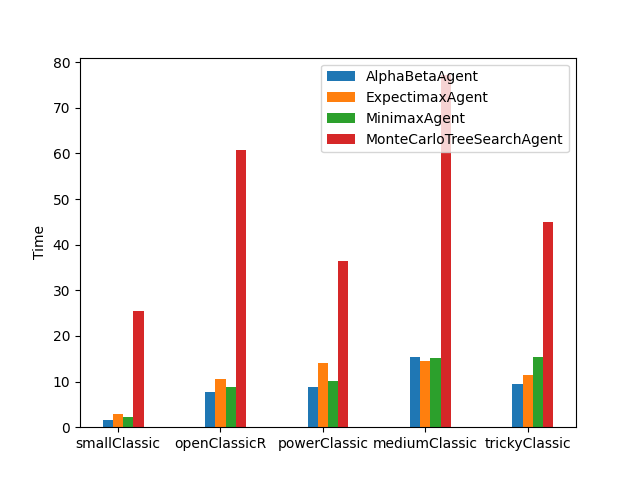
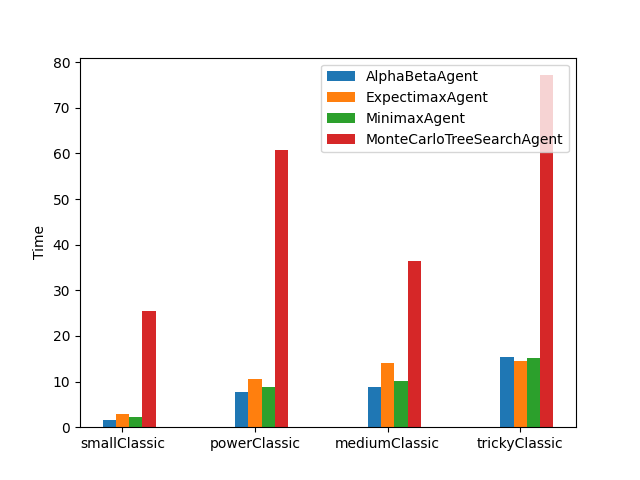
Custom layout specific graphs added

Changed region(s): [[0.125, 0.1562, 0.9062, 0.9375]]

diff --git a/source/2.multiagent/analysis/anova_testing.py b/source/2.multiagent/analysis/anova_testing.py
@@ -4,11 +4,14 @@ import matplotlib.pyplot as plt
 import os
 import json
 
-LAYOUTS = ["smallClassic", "openClassicR", "powerClassic","mediumClassic","trickyClassic"]
+ALLLAYOUTS = ["smallClassic", "powerClassic","mediumClassic","trickyClassic","openClassicR", "openClassicA", "openClassicN", "openClassicP", "mctsmodelClassic"]
+LAYOUTS = ["smallClassic", "powerClassic","mediumClassic","trickyClassic"]
+CUSTOMLAYOUTS = ["openClassicR", "openClassicA", "openClassicN", "openClassicP", "mctsmodelClassic"]
 
 def getData():
     directory = "../runs"
     data_specific_layout = dict()
+    data_specific_layout_custom = dict()
     for fname in os.listdir(directory):
         _fileName = os.path.join(directory, fname)
         if os.path.isfile(_fileName):
@@ -16,16 +19,24 @@ def getData():
             f_Data = json.loads(f.readline())
             fileName = _fileName.split("_")
             layout = fileName[2]
-            if layout in LAYOUTS:
-                if layout in data_specific_layout:
-                    data_specific_layout[layout].append(f_Data)
+            if layout in ALLLAYOUTS:
+                if layout=="openClassicR" or layout=="openClassicN" or layout=="openClassicP" or layout=="openClassicA" or layout=="mctsmodelClassic":
+                    if layout in data_specific_layout_custom:
+                        data_specific_layout_custom[layout].append(f_Data)
+                    else:
+                        data_specific_layout_custom[layout] = [f_Data]                    
                 else:
-                    data_specific_layout[layout] = [f_Data]
+                    if layout in data_specific_layout:
+                        data_specific_layout[layout].append(f_Data)
+                    else:
+                        data_specific_layout[layout] = [f_Data]
+            
             f.close()    
-    return data_specific_layout
+    return data_specific_layout,data_specific_layout_custom
 
-def analysis(data):
+def analysis(data, dataCustom):
     analysis = {}
+    analysisCustom = {}
     for layout in data:
         analysis[layout] = {}
         for d in data[layout]:
@@ -43,7 +54,25 @@ def analysis(data):
                 "meanTime": round((totalTime/count),2),
                 "winPercent": round((d["#Wins"]/d["TotalGames"]),2)
             }
-    return analysis
+
+    for layout in dataCustom:
+        analysisCustom[layout] = {}
+        for d in dataCustom[layout]:
+            # print(analysis)
+            count, totalScore, totalTime = 0, 0, 0
+            for i in range(d['TotalGames']):
+                if not d["Crashed"][i]:
+                    totalScore += d["Scores"][i]
+                    totalTime += d["Time"][i]
+                    count+=1
+                else:
+                    continue
+            analysisCustom[layout][d["Pacman_Agent"]] = {
+                "meanScore": 0 if count==0 else round((totalScore/count),2), 
+                "meanTime": 0 if count==0 else round((totalTime/count),2),
+                "winPercent": round((d["#Wins"]/d["TotalGames"]),2)
+            }
+    return analysis, analysisCustom
 
 def plot(data):
     x_axis = np.arange(len(LAYOUTS))
@@ -105,9 +134,70 @@ def plot(data):
     
     plt.show()
 
+def plotCUSTOM(data):
+    x_axis = np.arange(len(CUSTOMLAYOUTS))
+    width = 0.1
+    AlphaBetaAgent_score, ExpectimaxAgent_score, MinimaxAgent_score, MonteCarloTreeSearchAgent_score = [], [], [], []
+    AlphaBetaAgent_time, ExpectimaxAgent_time, MinimaxAgent_time,MonteCarloTreeSearchAgent_time = [], [], [], []
+    AlphaBetaAgent_win, ExpectimaxAgent_win, MinimaxAgent_win,MonteCarloTreeSearchAgent_win = [], [], [], []
+    for layout in data:
+        for agent in data[layout]:
+            if agent=="AlphaBetaAgent":
+                AlphaBetaAgent_score.append(data[layout]["AlphaBetaAgent"]["meanScore"])
+                AlphaBetaAgent_time.append(data[layout]["AlphaBetaAgent"]["meanTime"])
+                AlphaBetaAgent_win.append(data[layout]["AlphaBetaAgent"]["winPercent"])
+            elif agent=="ExpectimaxAgent":
+                ExpectimaxAgent_score.append(data[layout]["ExpectimaxAgent"]["meanScore"])
+                ExpectimaxAgent_time.append(data[layout]["ExpectimaxAgent"]["meanTime"])
+                ExpectimaxAgent_win.append(data[layout]["ExpectimaxAgent"]["winPercent"])
+            elif agent=="MinimaxAgent":
+                MinimaxAgent_score.append(data[layout]["MinimaxAgent"]["meanScore"])
+                MinimaxAgent_time.append(data[layout]["MinimaxAgent"]["meanTime"])
+                MinimaxAgent_win.append(data[layout]["MinimaxAgent"]["winPercent"])
+            elif agent=="MonteCarloTreeSearchAgent":
+                MonteCarloTreeSearchAgent_score.append(data[layout]["MonteCarloTreeSearchAgent"]["meanScore"])
+                MonteCarloTreeSearchAgent_time.append(data[layout]["MonteCarloTreeSearchAgent"]["meanTime"])
+                MonteCarloTreeSearchAgent_win.append(data[layout]["MonteCarloTreeSearchAgent"]["winPercent"])
+
+    # print(ExpectimaxAgent_score)
+    # print(MinimaxAgent_score)
+    plt.figure("Scores")
+    plt.bar(x_axis -width, AlphaBetaAgent_score, width, label = 'AlphaBetaAgent')
+    plt.bar(x_axis, ExpectimaxAgent_score, width, label = 'ExpectimaxAgent')
+    plt.bar(x_axis +width, MinimaxAgent_score, width, label = 'MinimaxAgent')
+    plt.bar(x_axis +width*2, MonteCarloTreeSearchAgent_score, width, label = 'MonteCarloTreeSearchAgent')
+    plt.ylabel("Scores")
+    plt.xticks(x_axis,CUSTOMLAYOUTS)
+    plt.legend()
+    plt.savefig('score_result_custom.png')
+
+
+    plt.figure("Time")
+    plt.bar(x_axis -width, AlphaBetaAgent_time, width, label = 'AlphaBetaAgent')
+    plt.bar(x_axis, ExpectimaxAgent_time, width, label = 'ExpectimaxAgent')
+    plt.bar(x_axis +width, MinimaxAgent_time, width, label = 'MinimaxAgent')
+    plt.bar(x_axis +width*2, MonteCarloTreeSearchAgent_time, width, label = 'MonteCarloTreeSearchAgent')
+    plt.ylabel("Time")
+    plt.xticks(x_axis,CUSTOMLAYOUTS)
+    plt.legend()
+    plt.savefig('time_result_custom.png')
+
+    plt.figure("Win Percent")
+    plt.bar(x_axis -width, AlphaBetaAgent_win, width, label = 'AlphaBetaAgent')
+    plt.bar(x_axis, ExpectimaxAgent_win, width, label = 'ExpectimaxAgent')
+    plt.bar(x_axis +width, MinimaxAgent_win, width, label = 'MinimaxAgent')
+    plt.bar(x_axis +width*2, MonteCarloTreeSearchAgent_win, width, label = 'MonteCarloTreeSearchAgent')
+    plt.ylabel("Win Percent")
+    plt.xticks(x_axis,CUSTOMLAYOUTS)
+    plt.legend()
+    plt.savefig('win_result_custom.png')
+    
+    plt.show()
+
 if __name__ == '__main__':
-    data = getData()
-    per_layout_values = analysis(data)
+    data, dataCustom = getData()
+    per_layout_values, per_layout_values_custom = analysis(data, dataCustom)
     plot(per_layout_values)
+    plotCUSTOM(per_layout_values_custom)
     
 
